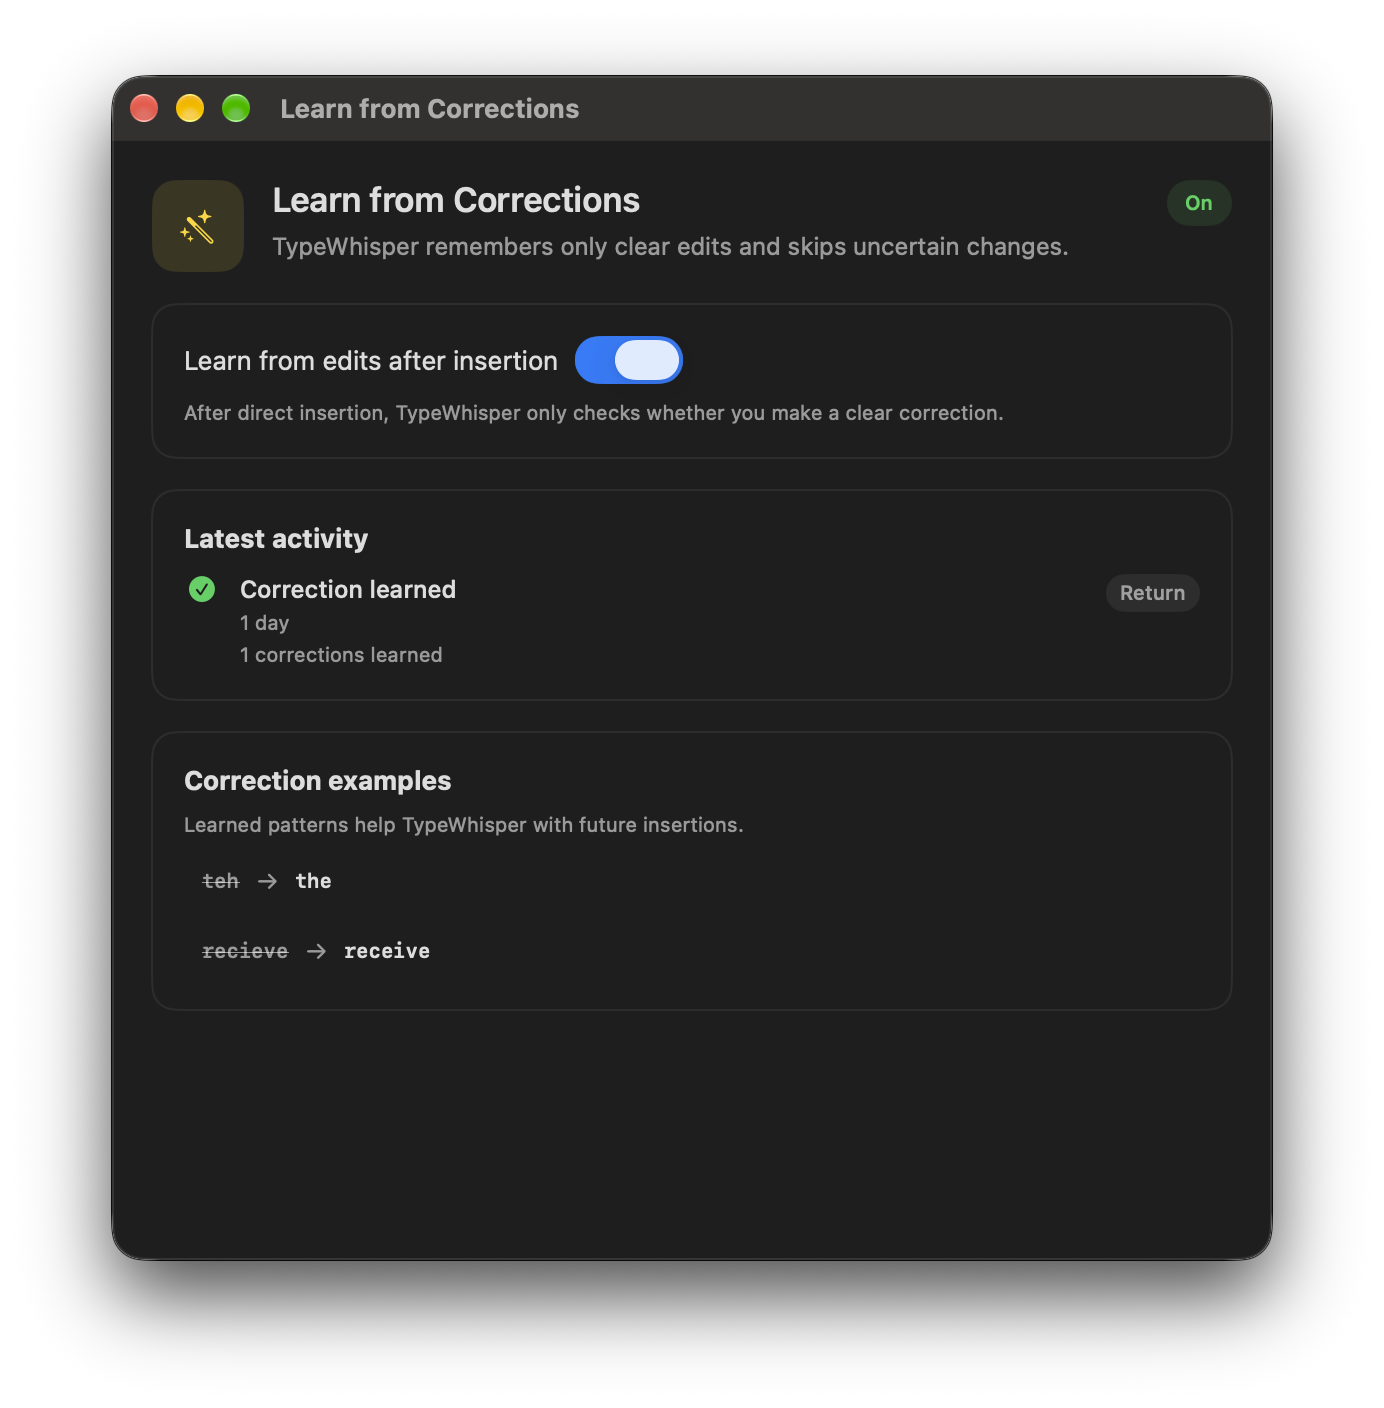
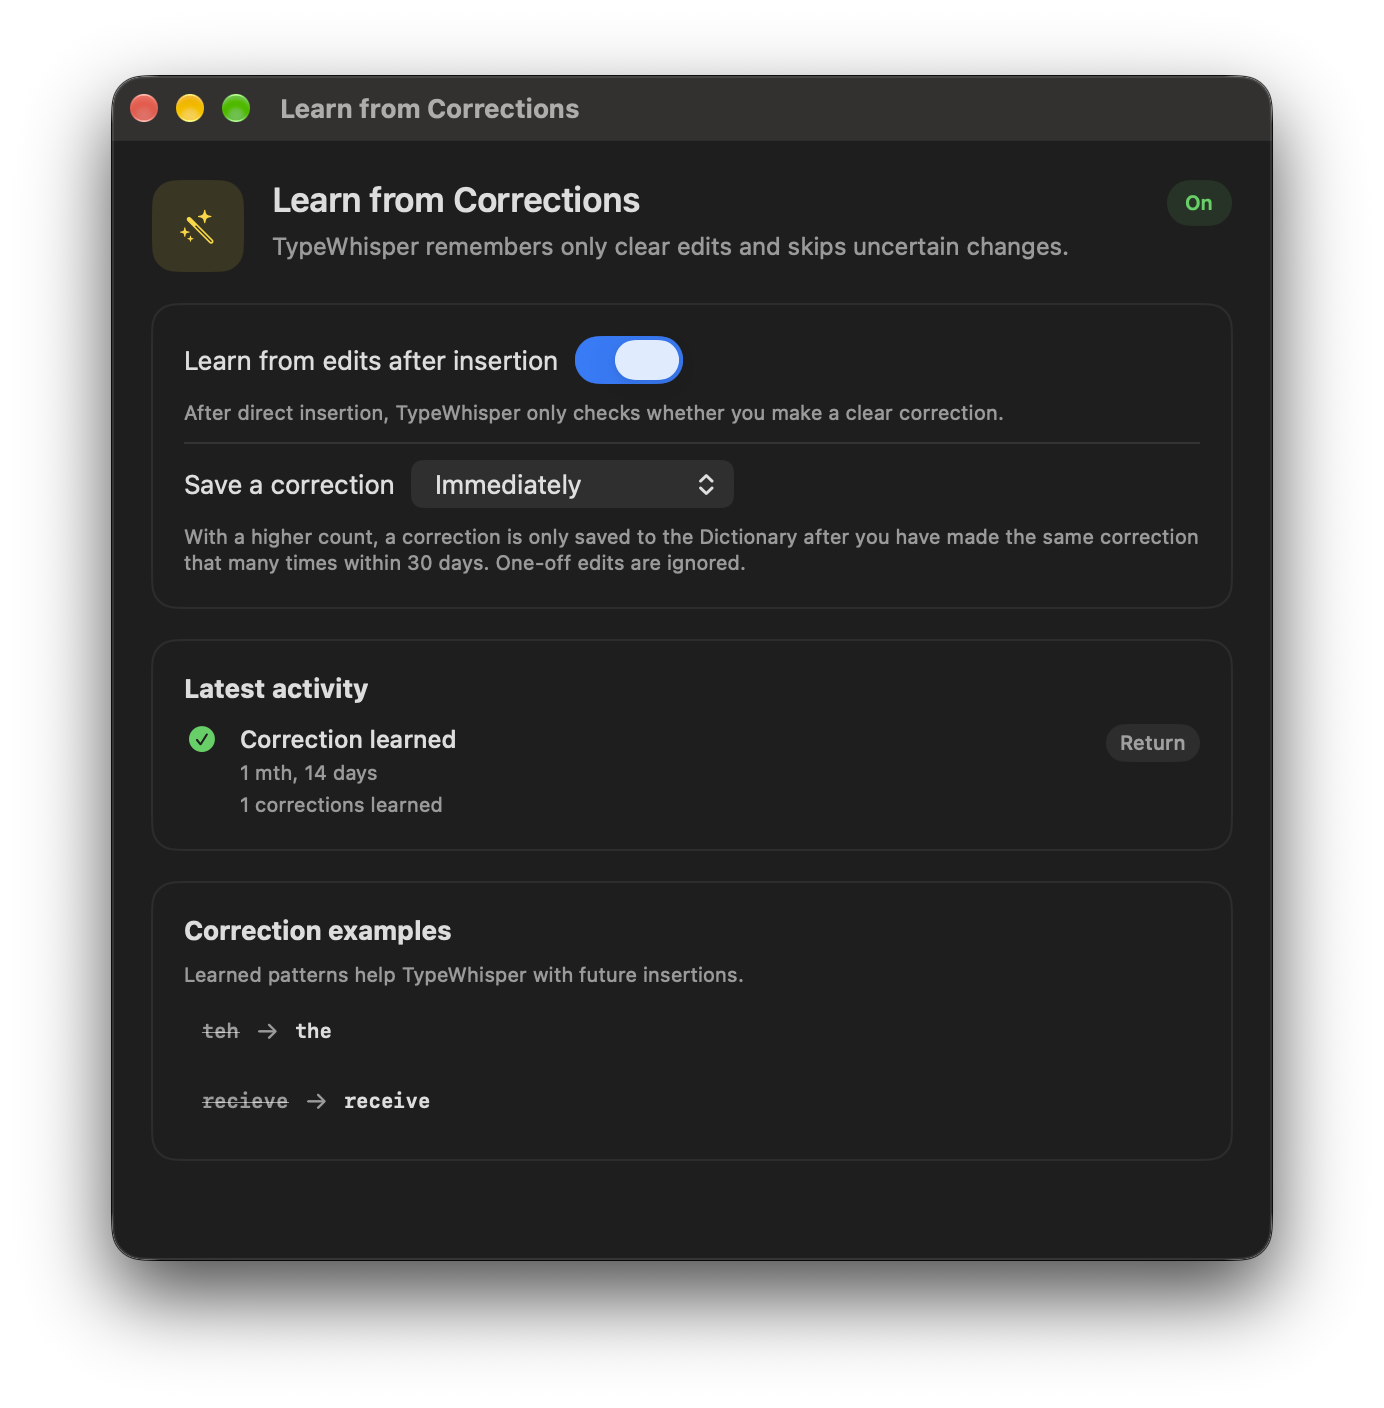
feat(learning): learn corrections only after repeats and ignore number edits (#1459)
* feat(learning): learn corrections only after repeats and ignore number edits

Learning from edits saved every confident correction right away, which also
turned one-off rewrites into permanent replacements. A new setting chooses how
often the same correction must be made within 30 days before it is saved
(immediately, 2, 3 or 5 times). Pending counts are stored under a digest, not
with the corrected words.

A number changed into another number, such as 90% to 95%, is no longer treated
as a correction.

* fix(learning): keep the repeat count until the dictionary write succeeds

A failed dictionary write dropped the pending count, so the correction had to
be repeated from the start. The count is now cleared only after the dictionary
accepted the correction. Also rewords the English help text.

diff --git a/TypeWhisper/Services/TargetAppCorrectionLearningService.swift b/TypeWhisper/Services/TargetAppCorrectionLearningService.swift
@@ -1,5 +1,6 @@
 import AppKit
 import Combine
+import CryptoKit
 import Foundation
 
 enum TargetAppCorrectionCommitSignal: String, Codable, Equatable, Sendable {
@@ -37,6 +38,7 @@ enum TargetAppCorrectionLearningOutcome: String, Codable, Equatable, Sendable {
     case ambiguousEdit
     case noCommitBeforeTimeout
     case duplicateCorrection
+    case awaitingRepeat
     case cancelled
     case failed
 }
@@ -211,9 +213,20 @@ private final class TargetAppCorrectionWakeCoordinator: @unchecked Sendable {
     }
 }
 
+/// How often a correction was seen while corrections are only learned after repeats.
+/// Keyed by a digest, so the corrected words themselves are never stored.
+private struct PendingCorrectionObservation: Codable, Equatable {
+    var count: Int
+    var lastSeen: Date
+}
+
 @MainActor
 final class TargetAppCorrectionLearningService: ObservableObject {
     private static let defaultPollSchedule: [Duration] = (1...30).map { .seconds($0) }
+    /// Choices offered for how often the same correction must be made before it is learned.
+    static let requiredObservationChoices = [1, 2, 3, 5]
+    private static let pendingObservationLifetime: TimeInterval = 30 * 24 * 60 * 60
+    private static let maxPendingObservations = 500
 
     private let textInsertionService: TextInsertionService
     private let textDiffService: TextDiffService
@@ -225,6 +238,7 @@ final class TargetAppCorrectionLearningService: ObservableObject {
     private let shouldPersistLatestAttempt: Bool
     private let now: @MainActor () -> Date
     private var activeAttemptID: UUID?
+    private var pendingObservations: [String: PendingCorrectionObservation]
 
     @Published private(set) var latestAttempt: TargetAppCorrectionLearningAttemptSnapshot?
 
@@ -255,6 +269,7 @@ final class TargetAppCorrectionLearningService: ObservableObject {
         self.defaults = defaults
         self.shouldPersistLatestAttempt = persistLatestAttempt
         self.now = now
+        self.pendingObservations = Self.loadPendingObservations(from: defaults)
         self.latestAttempt = Self.loadLatestAttempt(from: defaults)
     }
 
@@ -435,7 +450,20 @@ final class TargetAppCorrectionLearningService: ObservableObject {
             )
         }
 
+        let suggestions = suggestions.filter(hasEnoughObservations)
+        guard !suggestions.isEmpty else {
+            return completeAttempt(
+                id: id,
+                outcome: .awaitingRepeat,
+                commitSignal: commitSignal,
+                correctionObservation: correctionObservation
+            )
+        }
+
         let dictionaryResult = learnCorrections(suggestions)
+        if !dictionaryResult.failed {
+            clearObservations(of: suggestions)
+        }
         let outcome: TargetAppCorrectionLearningOutcome
         if dictionaryResult.failed {
             outcome = .failed
@@ -478,6 +506,56 @@ final class TargetAppCorrectionLearningService: ObservableObject {
             learnedCorrections: learnedCorrections,
             correctionObservation: correctionObservation
         )
+    }
+
+    /// A correction is held back until the same edit was committed as often as the user
+    /// asked for; with the default of one, every confident correction is learned right away.
+    private func hasEnoughObservations(_ suggestion: CorrectionSuggestion) -> Bool {
+        let requiredObservations = defaults.integer(
+            forKey: UserDefaultsKeys.targetAppCorrectionLearningRequiredObservations
+        )
+        guard requiredObservations > 1 else { return true }
+
+        let timestamp = now()
+        let expiry = timestamp.addingTimeInterval(-Self.pendingObservationLifetime)
+        pendingObservations = pendingObservations.filter { $0.value.lastSeen >= expiry }
+
+        // The count stays until the dictionary accepted the correction, so a failed
+        // write does not send the user back to the start.
+        let key = Self.pendingObservationKey(for: suggestion)
+        let count = (pendingObservations[key]?.count ?? 0) + 1
+        pendingObservations[key] = PendingCorrectionObservation(count: count, lastSeen: timestamp)
+        if pendingObservations.count > Self.maxPendingObservations,
+           let oldest = pendingObservations.min(by: { $0.value.lastSeen < $1.value.lastSeen }) {
+            pendingObservations[oldest.key] = nil
+        }
+        persistPendingObservations()
+        return count >= requiredObservations
+    }
+
+    private func clearObservations(of suggestions: [CorrectionSuggestion]) {
+        let keys = suggestions.map(Self.pendingObservationKey(for:))
+        guard keys.contains(where: { pendingObservations[$0] != nil }) else { return }
+        keys.forEach { pendingObservations[$0] = nil }
+        persistPendingObservations()
+    }
+
+    private static func pendingObservationKey(for suggestion: CorrectionSuggestion) -> String {
+        let identity = suggestion.original.lowercased() + "\u{1F}" + suggestion.replacement
+        return SHA256.hash(data: Data(identity.utf8)).map { String(format: "%02x", $0) }.joined()
+    }
+
+    private func persistPendingObservations() {
+        guard shouldPersistLatestAttempt else { return }
+        guard let data = try? JSONEncoder().encode(pendingObservations) else { return }
+        defaults.set(data, forKey: UserDefaultsKeys.targetAppCorrectionLearningPendingObservations)
+    }
+
+    private static func loadPendingObservations(from defaults: UserDefaults) -> [String: PendingCorrectionObservation] {
+        guard let data = defaults.data(forKey: UserDefaultsKeys.targetAppCorrectionLearningPendingObservations) else {
+            return [:]
+        }
+        return (try? JSONDecoder().decode([String: PendingCorrectionObservation].self, from: data)) ?? [:]
     }
 
     private func persistLatestAttempt(_ snapshot: TargetAppCorrectionLearningAttemptSnapshot) {

diff --git a/TypeWhisperTests/TargetAppCorrectionLearningServiceTests.swift b/TypeWhisperTests/TargetAppCorrectionLearningServiceTests.swift
@@ -831,6 +831,87 @@ final class TargetAppCorrectionLearningServiceTests: XCTestCase {
         XCTAssertEqual(dictionaryService.correctionsCount, 1)
     }
 
+    func testRepeatRequirementLearnsCorrectionOnceItWasMadeOftenEnough() async throws {
+        let appSupportDirectory = try TestSupport.makeTemporaryDirectory()
+        defer { TestSupport.remove(appSupportDirectory) }
+        let suiteName = "TargetAppCorrectionLearningServiceTests.\(UUID().uuidString)"
+        guard let defaults = UserDefaults(suiteName: suiteName) else {
+            return XCTFail("Could not create isolated defaults")
+        }
+        defer { defaults.removePersistentDomain(forName: suiteName) }
+        defaults.set(3, forKey: UserDefaultsKeys.targetAppCorrectionLearningRequiredObservations)
+
+        let element = AXUIElementCreateSystemWide()
+        let textInsertionService = TextInsertionService()
+        textInsertionService.focusedTextElementOverride = { element }
+        textInsertionService.focusedTextStateOverride = { _ in
+            (value: "Please use the word", selectedText: nil, selectedRange: NSRange(location: 19, length: 0))
+        }
+        let dictionaryService = DictionaryService(appSupportDirectory: appSupportDirectory)
+        let baseline = TextInsertionService.FocusedTextObservation(
+            element: element,
+            value: "Please use teh word",
+            selectedText: nil,
+            selectedRange: NSRange(location: 19, length: 0)
+        )
+
+        var dictionaryStorageFails = false
+        func trackCommittedCorrection() async -> TargetAppCorrectionLearningResult {
+            let commitEmitter = CommitEmitterBox()
+            var sleepCount = 0
+            // A new service per dictation also proves the count survives a relaunch.
+            let service = TargetAppCorrectionLearningService(
+                textInsertionService: textInsertionService,
+                textDiffService: TextDiffService(),
+                dictionaryService: dictionaryService,
+                pollSchedule: [.milliseconds(0), .milliseconds(0)],
+                sleep: { _ in
+                    sleepCount += 1
+                    if sleepCount == 2 {
+                        commitEmitter.emit(.returnKey)
+                    }
+                },
+                makeCommitObserver: commitObserver(capturing: commitEmitter),
+                learnCorrections: { suggestions in
+                    dictionaryStorageFails
+                        ? DictionaryCorrectionLearningResult(learnedCorrections: [], duplicateCount: 0, failed: true)
+                        : dictionaryService.learnCorrectionsWithResult(suggestions)
+                },
+                defaults: defaults,
+                persistLatestAttempt: true
+            )
+            return await service.trackInsertion(insertedText: "teh", baseline: baseline)
+        }
+
+        let first = await trackCommittedCorrection()
+        XCTAssertEqual(first.snapshot.outcome, .awaitingRepeat)
+        XCTAssertTrue(first.learnedCorrections.isEmpty)
+        XCTAssertEqual(dictionaryService.correctionsCount, 0)
+
+        let pendingData = try XCTUnwrap(defaults.data(
+            forKey: UserDefaultsKeys.targetAppCorrectionLearningPendingObservations
+        ))
+        let pendingJSON = try XCTUnwrap(String(data: pendingData, encoding: .utf8))
+        XCTAssertFalse(pendingJSON.contains("teh"))
+
+        let second = await trackCommittedCorrection()
+        XCTAssertEqual(second.snapshot.outcome, .awaitingRepeat)
+        XCTAssertEqual(dictionaryService.correctionsCount, 0)
+
+        // A failed dictionary write must not reset the count.
+        dictionaryStorageFails = true
+        let failed = await trackCommittedCorrection()
+        XCTAssertEqual(failed.snapshot.outcome, .failed)
+        XCTAssertEqual(dictionaryService.correctionsCount, 0)
+        dictionaryStorageFails = false
+
+        let third = await trackCommittedCorrection()
+        XCTAssertEqual(third.snapshot.outcome, .learned)
+        XCTAssertEqual(third.learnedCorrections.first?.original, "teh")
+        XCTAssertEqual(third.learnedCorrections.first?.replacement, "the")
+        XCTAssertEqual(dictionaryService.correctionsCount, 1)
+    }
+
     func testCancelsStaleTrackingBeforeLearning() async throws {
         let appSupportDirectory = try TestSupport.makeTemporaryDirectory()
         defer { TestSupport.remove(appSupportDirectory) }

diff --git a/TypeWhisper/Views/PremiumSettingsView.swift b/TypeWhisper/Views/PremiumSettingsView.swift
@@ -263,6 +263,7 @@ struct PremiumCorrectionLearningSettingsView: View {
     @ObservedObject private var license: LicenseService
     @ObservedObject private var correctionLearningService: TargetAppCorrectionLearningService
     @AppStorage(UserDefaultsKeys.targetAppCorrectionLearningEnabled) private var learningEnabled = false
+    @AppStorage(UserDefaultsKeys.targetAppCorrectionLearningRequiredObservations) private var requiredObservations = 1
 
     private let onManageAccess: () -> Void
 
@@ -310,6 +311,30 @@ struct PremiumCorrectionLearningSettingsView: View {
                     .accessibilityIdentifier("premium.learning.enabled")
 
                     Text(String(localized: "premium.window.learning.help"))
+                        .font(.caption)
+                        .foregroundStyle(.secondary)
+
+                    Divider()
+
+                    Picker(
+                        String(localized: "premium.window.learning.repeatCount.label"),
+                        selection: $requiredObservations
+                    ) {
+                        ForEach(TargetAppCorrectionLearningService.requiredObservationChoices, id: \.self) { count in
+                            Text(count == 1
+                                ? String(localized: "premium.window.learning.repeatCount.immediately")
+                                : String.localizedStringWithFormat(
+                                    String(localized: "premium.window.learning.repeatCount.afterFormat"),
+                                    count
+                                ))
+                                .tag(count)
+                        }
+                    }
+                    .fixedSize()
+                    .disabled(!learningEnabled)
+                    .accessibilityIdentifier("premium.learning.repeatCount")
+
+                    Text(String(localized: "premium.window.learning.repeatCount.help"))
                         .font(.caption)
                         .foregroundStyle(.secondary)
                 }

diff --git a/TypeWhisper/Services/TextDiffService.swift b/TypeWhisper/Services/TextDiffService.swift
@@ -166,6 +166,8 @@ final class TextDiffService {
                 // Skip if only punctuation or case changed
                 if origStripped.lowercased() == replStripped.lowercased() { continue }
 
+                if Self.isNumericValue(origStripped), Self.isNumericValue(replStripped) { continue }
+
                 suggestions.append(CorrectionSuggestion(
                     original: origStripped,
                     replacement: replStripped
@@ -213,6 +215,10 @@ final class TextDiffService {
                 return []
             }
 
+            guard !(Self.isNumericValue(originalStripped) && Self.isNumericValue(editedStripped)) else {
+                return []
+            }
+
             suggestion = CorrectionSuggestion(
                 original: originalStripped,
                 replacement: editedStripped
@@ -229,6 +235,12 @@ final class TextDiffService {
 
     private static func strippedWordToken(_ token: String) -> String {
         token.trimmingCharacters(in: .punctuationCharacters)
+    }
+
+    /// A number changed into another number ("90%" -> "95%") is a content edit,
+    /// not a misrecognized word worth replacing in every future dictation.
+    private static func isNumericValue(_ token: String) -> Bool {
+        token.contains(where: \.isNumber) && !token.contains(where: \.isLetter)
     }
 
     private static func isPunctuationOnly(_ token: String) -> Bool {

diff --git a/TypeWhisper/Views/PremiumFeatureOverview.swift b/TypeWhisper/Views/PremiumFeatureOverview.swift
@@ -875,6 +875,8 @@ enum PremiumCorrectionLearningCopy {
             String(localized: "premium.window.learning.outcome.noCommitBeforeTimeout")
         case .duplicateCorrection:
             String(localized: "premium.window.learning.outcome.duplicateCorrection")
+        case .awaitingRepeat:
+            String(localized: "premium.window.learning.outcome.awaitingRepeat")
         case .cancelled:
             String(localized: "premium.window.learning.outcome.cancelled")
         case .failed:
@@ -890,7 +892,7 @@ enum PremiumCorrectionLearningCopy {
             "exclamationmark.triangle.fill"
         case .unsupportedTextObservation, .ambiguousEdit, .noCommitBeforeTimeout:
             "info.circle.fill"
-        case .noEdit, .duplicateCorrection, .cancelled:
+        case .noEdit, .duplicateCorrection, .awaitingRepeat, .cancelled:
             "minus.circle.fill"
         }
     }
@@ -903,7 +905,7 @@ enum PremiumCorrectionLearningCopy {
             .red
         case .unsupportedTextObservation, .ambiguousEdit, .noCommitBeforeTimeout:
             .yellow
-        case .noEdit, .duplicateCorrection, .cancelled:
+        case .noEdit, .duplicateCorrection, .awaitingRepeat, .cancelled:
             .secondary
         }
     }

diff --git a/TypeWhisperTests/TextDiffServiceTests.swift b/TypeWhisperTests/TextDiffServiceTests.swift
@@ -149,6 +149,26 @@ final class TextDiffServiceTests: XCTestCase {
         XCTAssertEqual(suggestions.first?.replacement, "the")
     }
 
+    func testExtractionSkipsNumberToNumberEdits() {
+        let service = TextDiffService()
+
+        XCTAssertTrue(service.extractHighConfidenceCorrections(
+            original: "accuracy was 90% today",
+            edited: "accuracy was 95% today"
+        ).isEmpty)
+        XCTAssertTrue(service.extractCorrections(
+            original: "accuracy was 90% today",
+            edited: "accuracy was 95% today"
+        ).isEmpty)
+
+        let suggestions = service.extractHighConfidenceCorrections(
+            original: "deploy to Kates now",
+            edited: "deploy to K8s now"
+        )
+        XCTAssertEqual(suggestions.first?.original, "Kates")
+        XCTAssertEqual(suggestions.first?.replacement, "K8s")
+    }
+
     func testHighConfidenceExtractionSkipsAmbiguousAndLowSignalEdits() {
         let service = TextDiffService()
 

diff --git a/TypeWhisper/App/UserDefaultsKeys.swift b/TypeWhisper/App/UserDefaultsKeys.swift
@@ -90,6 +90,8 @@ enum UserDefaultsKeys {
     static let selectedIndustryPreset = "selectedIndustryPreset"
     static let targetAppCorrectionLearningEnabled = "targetAppCorrectionLearningEnabled"
     static let targetAppCorrectionLearningLatestAttempt = "targetAppCorrectionLearningLatestAttempt"
+    static let targetAppCorrectionLearningRequiredObservations = "targetAppCorrectionLearningRequiredObservations"
+    static let targetAppCorrectionLearningPendingObservations = "targetAppCorrectionLearningPendingObservations"
 
     // MARK: - Calendar Meeting Automation (machine-local; intentionally not synced/exported)
     static let calendarMeetingStartMode = "calendarMeetingStartMode"
